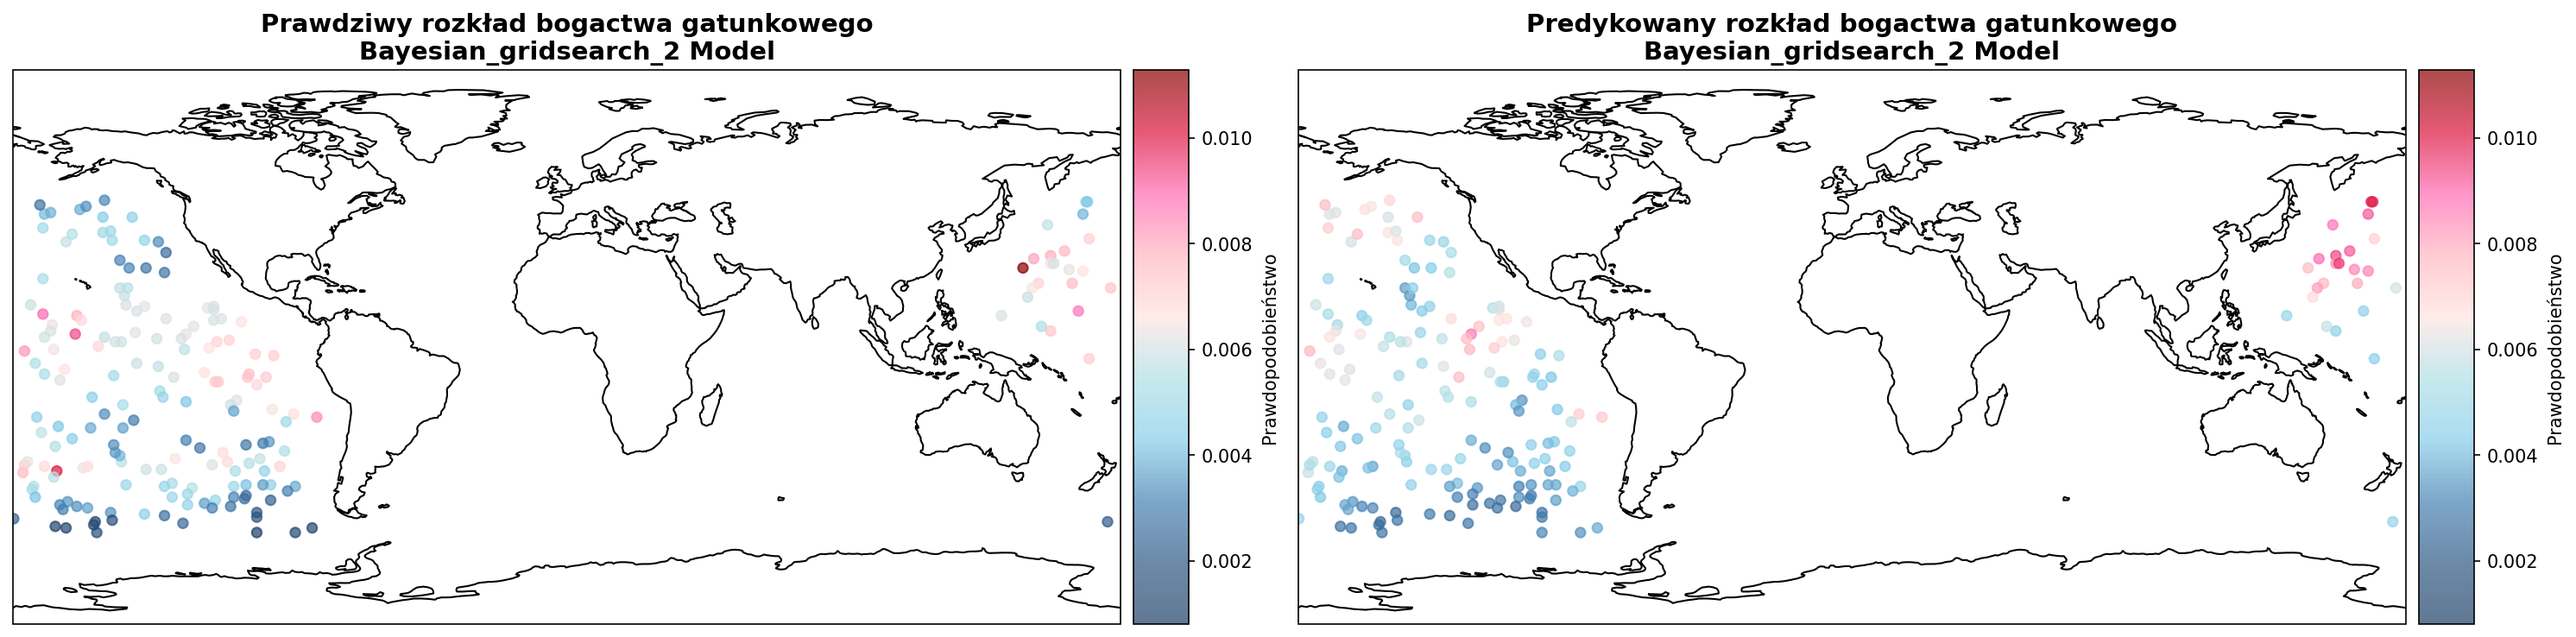
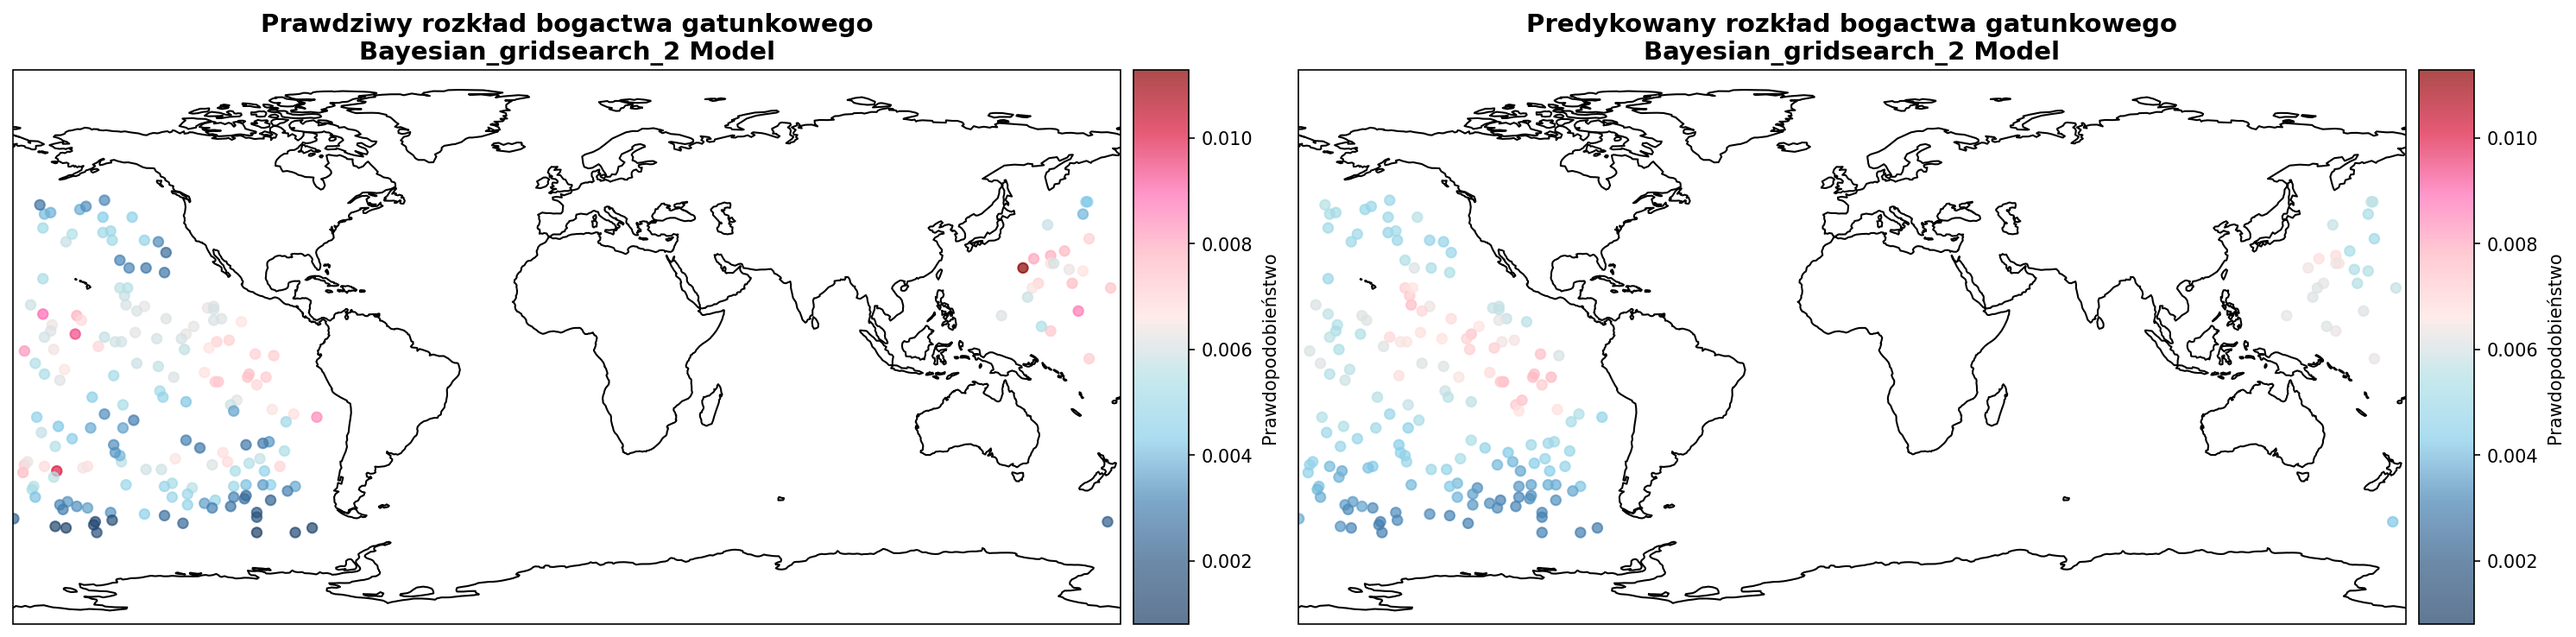
adaptive grid

diff --git a/PythonApplication1/PythonApplication1.py b/PythonApplication1/PythonApplication1.py
@@ -281,69 +281,108 @@ class BayesianFieldModel:
 
 class BayesianFieldModelGridSearch(BayesianFieldModel):
     def __init__(self, space_points, metric_func, observed_indices,
-                 variance, distance_unit='km', lengthscale_grid=None):
+                 variance, distance_unit='km', lengthscale_grid=None): # Podpis zachowany dla kompatybilności
         
-        # Inicjalizuj z tymczasowym lengthscale=1; zostanie on nadpisany
         super().__init__(space_points, metric_func, observed_indices, 1, variance, distance_unit)
-        self.lengthscale_grid = lengthscale_grid or [5000, 4500, 6500, 5500, 6000]
-        print(f"\n▶ [GRID-SEARCH MODEL] Inicjalizacja z siatką lengthscale: {self.lengthscale_grid}")
+        # lengthscale_grid nie jest już potrzebny, ale zostaje w sygnaturze
+        print(f"\n▶ [ADAPTIVE-SEARCH MODEL] Inicjalizacja.")
+
+    def _evaluate_lengthscale(self, ls, w_initial):
+        """Funkcja pomocnicza do oceny danego 'lengthscale'."""
+        try:
+            p1 = self.space_points[0]
+            Sigma_w = np.zeros((self.m, self.m))
+            for i in range(self.m):
+                pi = self.space_points[i+1]
+                d_i1 = self.metric(pi, p1, return_unit=self.distance_unit) / ls
+                Sigma_w[i, i] = d_i1
+                for j in range(i+1, self.m):
+                    pj = self.space_points[j+1]
+                    d_j1 = self.metric(pj, p1, return_unit=self.distance_unit) / ls
+                    d_ij = self.metric(pi, pj, return_unit=self.distance_unit) / ls
+                    cov_ij = (d_i1 + d_j1 - d_ij) / 2.0
+                    Sigma_w[i, j] = cov_ij
+                    Sigma_w[j, i] = cov_ij
+            
+            mvn_u_temp = MultivariateNormalCholesky(Sigma_w)
+            # Użyj krótkiego MCMC do oceny
+            # To jest bardziej wiarygodne niż tylko log_posterior w punkcie startowym
+            temp_model = BayesianFieldModel(self.space_points, self.metric, self.observed_indices, ls, self.variance, self.distance_unit)
+            temp_model.przygotuj_apriori()
+            temp_model.przygotuj_predykcyjny(num_samples=100, burn_in=50, proposal_scale=0.05, seed=42)
+            
+            # Użyjemy średniego log-posterior z krótkiego przebiegu jako score
+            log_post_samples = [log_posterior_fast(w, self.counts_f, temp_model.mvn_u.L, temp_model.mvn_u.log_norm_const) for w in temp_model.samples_w]
+            score = np.mean(log_post_samples) if log_post_samples else -np.inf
+
+            print(f"  - Testuję lengthscale={ls}: wynik={score:.2f}")
+            return score
+        except Exception as e:
+            print(f"  - Błąd przy lengthscale={ls}: {e}")
+            return -np.inf
 
     def przygotuj_apriori(self):
-        print("▶ [GRID SEARCH] Rozpoczynanie K-krotnej walidacji krzyżowej dla 'lengthscale'...")
+        print("▶ [ADAPTIVE SEARCH] Rozpoczynanie adaptacyjnego poszukiwania 'lengthscale'...")
+        w_initial = self.znajdz_dobry_punkt_startowy()
+        self.counts_f = self.counts.astype(np.float64)
         
-        K = 5
-        shuffled_indices = np.random.permutation(self.observed_indices)
-        folds = np.array_split(shuffled_indices, K)
+        # --- Faza 1: Zgrubne poszukiwanie ---
+        start_ls = 3000
+        step = 1000
+        max_steps = 10
         
-        best_ls = -1
-        best_avg_score = -np.inf
+        ls_prev = start_ls
+        score_prev = self._evaluate_lengthscale(ls_prev, w_initial)
         
-        for ls in self.lengthscale_grid:
-            fold_scores = []
-            print(f"--- Testuję lengthscale = {ls} ---")
+        peak_ls = ls_prev
+        
+        for i in range(1, max_steps):
+            ls_curr = ls_prev + step
+            score_curr = self._evaluate_lengthscale(ls_curr, w_initial)
             
-            for k in range(K):
-                val_indices = folds[k]
-                train_indices_list = [folds[i] for i in range(K) if i != k]
-                train_indices = np.concatenate(train_indices_list)
-
-                print(f"  Fold {k+1}/{K}: Trening na {len(train_indices)} obserwacjach...")
-                
-                try:
-                    temp_model = BayesianFieldModel(
-                        space_points=self.space_points,
-                        metric_func=self.metric,
-                        observed_indices=train_indices,
-                        lengthscale=ls,
-                        variance=self.variance,
-                        distance_unit=self.distance_unit
-                    )
-                    
-                    temp_model.przygotuj_apriori()
-                    temp_model.przygotuj_predykcyjny(num_samples=1000, burn_in=500, proposal_scale=0.05, seed=42)
-                    
-                    pred_probs = temp_model.posterior_mean()
-                    
-                    # Log-Likelihood on validation set
-                    score = np.sum(np.log(pred_probs[val_indices] + 1e-9))
-                    fold_scores.append(score)
-                    print(f"    Fold {k+1} score: {score:.2f}")
-                except Exception as e:
-                    print(f"    Fold {k+1} BŁĄD: {e}")
-                    fold_scores.append(-np.inf)
-
-            avg_score = np.mean(fold_scores)
-            print(f"  > Średni wynik dla lengthscale={ls}: {avg_score:.2f}\n")
+            if score_curr < score_prev:
+                peak_ls = ls_prev # Poprzedni był lepszy
+                break
             
-            if avg_score > best_avg_score:
-                best_avg_score = avg_score
-                best_ls = ls
-
-        if best_ls == -1:
-            raise ValueError("Grid search z walidacją krzyżową nie znalazł poprawnego 'lengthscale'.")
+            score_prev = score_curr
+            ls_prev = ls_curr
+            peak_ls = ls_curr # Na wypadek, gdybyśmy osiągnęli max_steps
         
-        print(f"✅ Najlepszy 'lengthscale' znaleziony przez walidację krzyżową: {best_ls} (wynik: {best_avg_score:.2f})")
-        self.lengthscale = best_ls
+        print(f"  ✔ Zgrubne optimum znalezione w okolicy: {peak_ls}")
+
+        # --- Faza 2: Rekurencyjne zawężanie ---
+        current_best_ls = peak_ls
+        search_interval = 500
+        max_recursive_steps = 5
+        
+        for i in range(max_recursive_steps):
+            if search_interval < 100:
+                print("  ✔ Osiągnięto minimalny interwał. Koniec poszukiwania.")
+                break
+            
+            print(f"\n  --- Krok zawężania {i+1}, interwał: {search_interval} ---")
+            
+            points_to_test = {
+                current_best_ls - search_interval,
+                current_best_ls,
+                current_best_ls + search_interval
+            }
+            
+            # Ocena punktów - z cache'owaniem wyników
+            scores = {ls: self._evaluate_lengthscale(ls, w_initial) for ls in sorted(list(points_to_test))}
+            
+            # Znajdź najlepszy
+            best_ls_in_step = max(scores, key=scores.get)
+            
+            if best_ls_in_step == current_best_ls:
+                print("  ✔ Optimum znalezione w środku interwału. Koniec poszukiwania.")
+                break
+            
+            current_best_ls = best_ls_in_step
+            search_interval //= 2
+        
+        self.lengthscale = current_best_ls
+        print(f"✅ Najlepszy 'lengthscale' znaleziony przez adaptacyjne poszukiwanie: {self.lengthscale}")
         
         print("\n▶ [APRIORI] Finalne przygotowanie z najlepszym 'lengthscale'...")
         super().przygotuj_apriori()
@@ -1983,7 +2022,7 @@ if __name__ == "__main__":
             'mcmc_scale': 0.05,
             'mcmc_seed': 42
         }),
-        ('dirichlet', {}),
+        ('dirichlet', {}),do
         ('spatial', {'smoothing_factor': 0.1})
     ]
 
